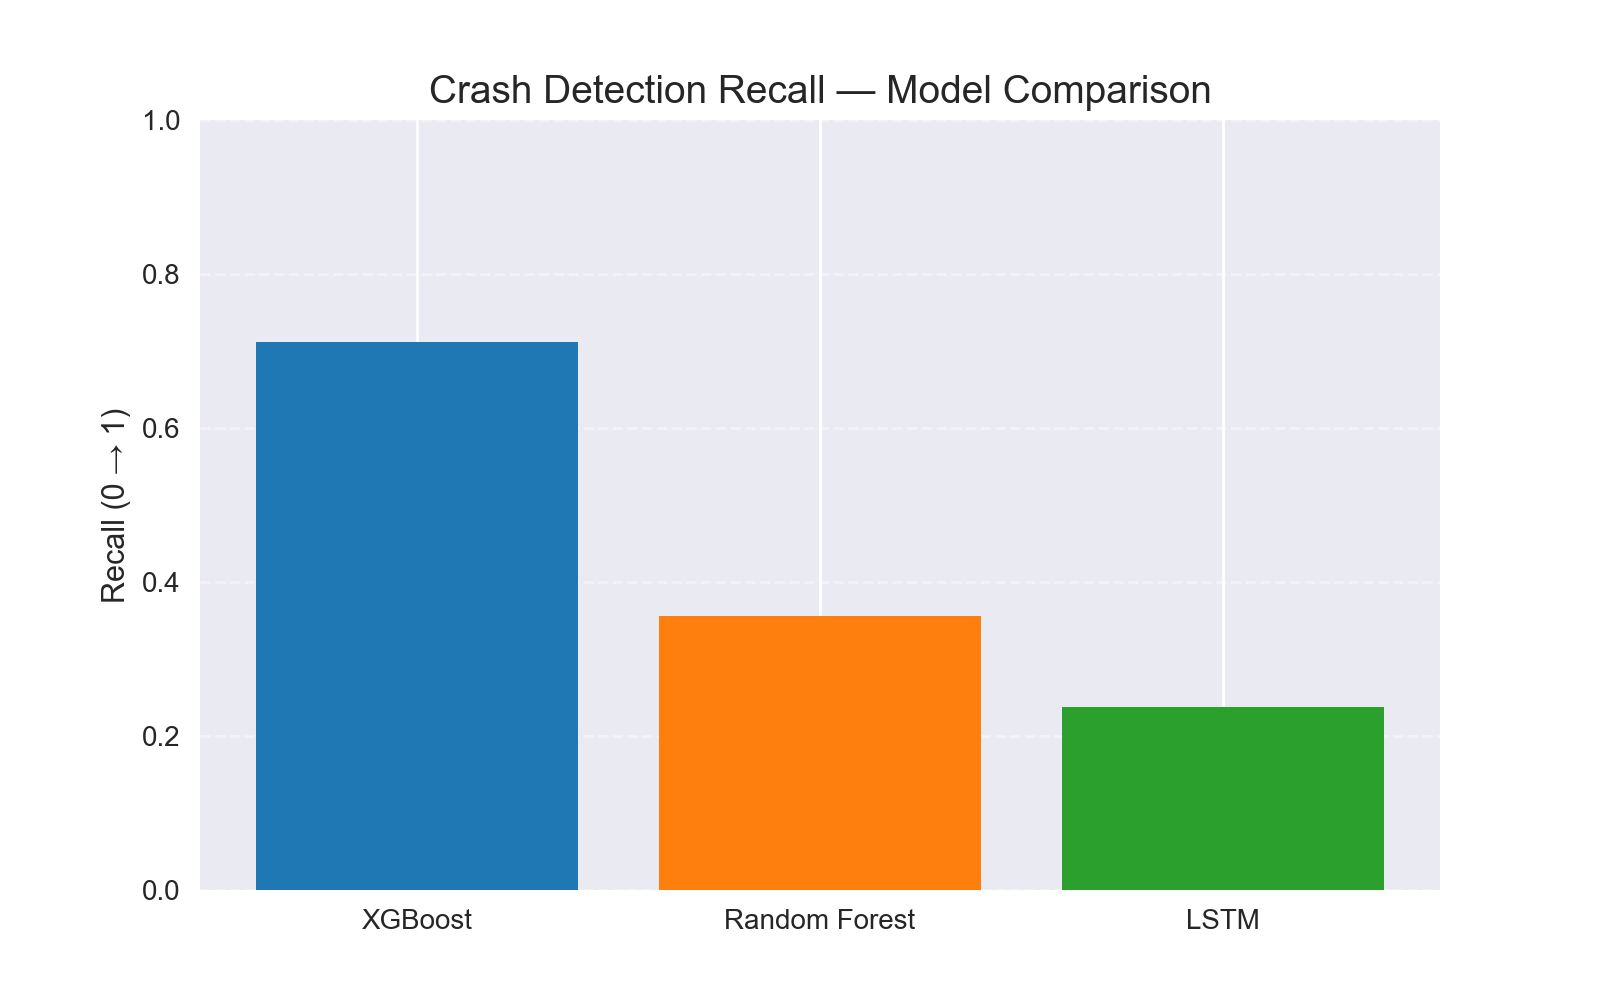
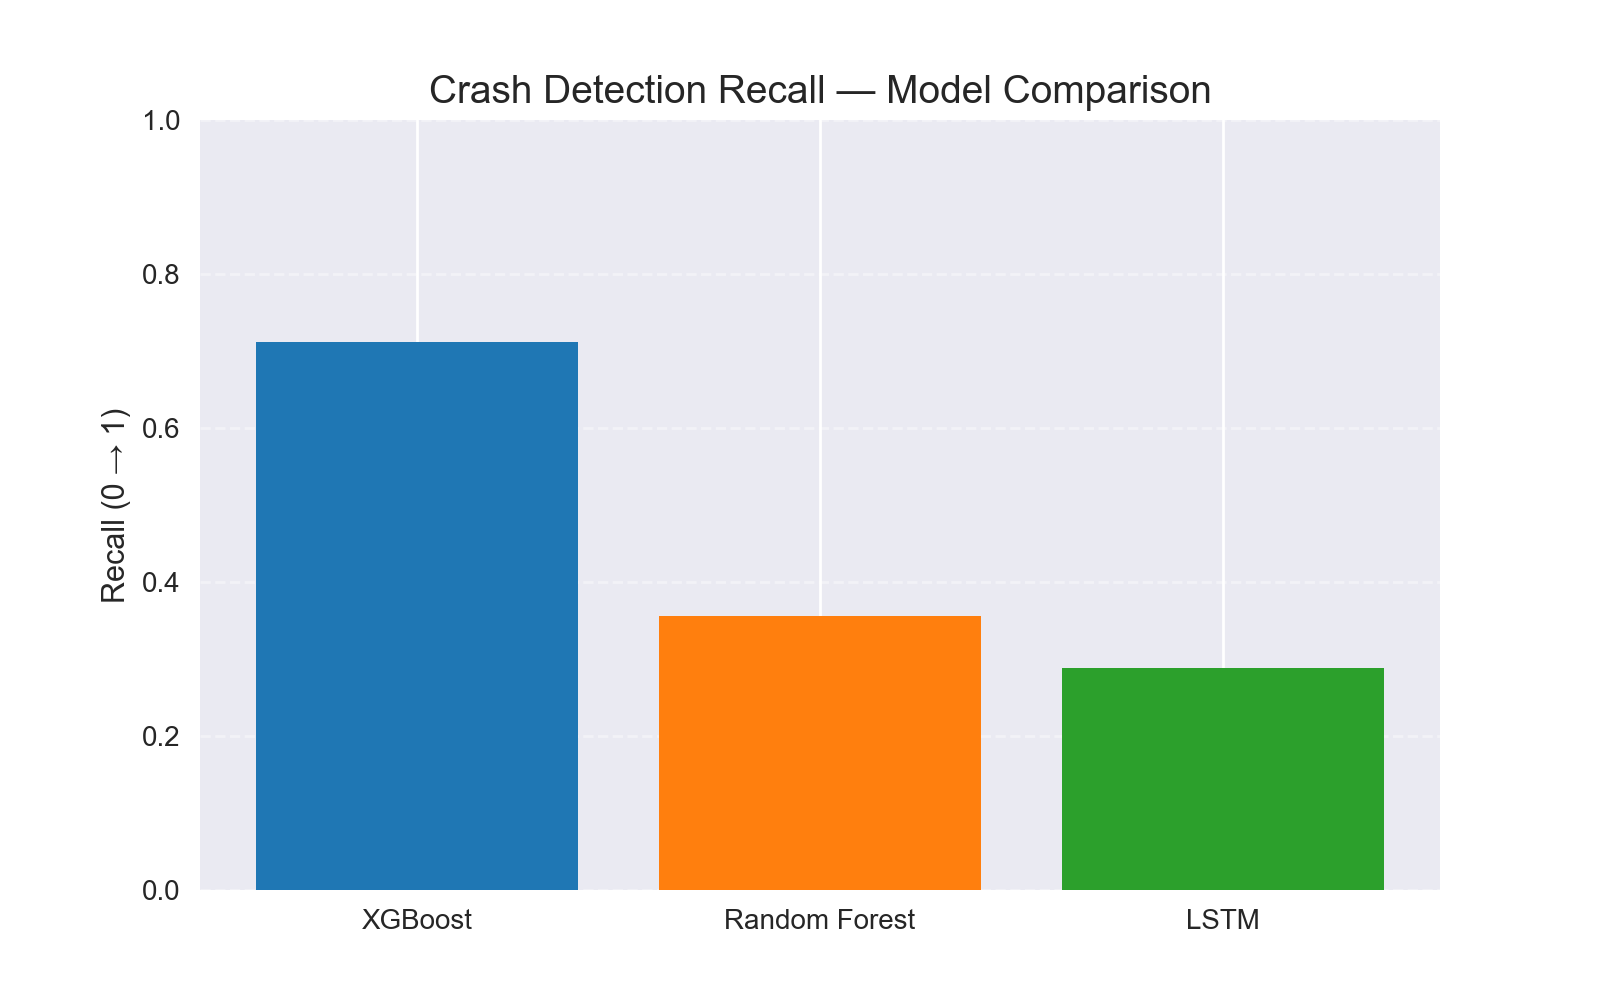
updating of different documents

Changed region(s): [[0.6562, 0.651, 0.875, 0.713]]

diff --git a/src/xgboost_randomforest_kmeans.py b/src/xgboost_randomforest_kmeans.py
@@ -162,56 +162,53 @@ print("\nModel successfully identifies safe-haven assets during extreme market s
 
 
 # =============================================================================
-# 5. RANDOM FOREST – ROBUSTNESS CHECK
+# 5. RANDOM FOREST MODEL
 # =============================================================================
 
 from sklearn.ensemble import RandomForestClassifier
 
 print("\n" + "="*70)
-print("COMPARATIVE MODEL PERFORMANCE & CONSISTENCY CHECK")
+print("Random Forest Performance on 2020–2025 (Extreme Crash Prediction)")
 print("="*70)
 
-rf = RandomForestClassifier(
+rf_model = RandomForestClassifier(
     n_estimators=500,
     max_depth=None,
-    class_weight='balanced',
+    min_samples_leaf=1,
+    class_weight="balanced",
     random_state=42,
     n_jobs=-1
 )
 
-rf.fit(X_train, y_train)
-rf_pred = rf.predict(X_test)
-rf_prob = rf.predict_proba(X_test)[:, 1]
+rf_model.fit(X_train, y_train)
 
-rf_recall = recall_score(y_test, rf_pred)
-xgb_recall = recall_score(y_test, y_pred)
+rf_pred = rf_model.predict(X_test)
+rf_prob = rf_model.predict_proba(X_test)[:, 1]
 
-print(f"Random Forest Recall on crash days : {rf_recall:.4f}")
-print(f"XGBoost       Recall on crash days : {xgb_recall:.4f}")
+# PERFORMANCE METRICS
+print(classification_report(y_test, rf_pred, digits=4))
+print(f"ROC AUC Score: {roc_auc_score(y_test, rf_prob):.4f}")
 
-rf_crash_days = X_test.index[rf_pred == 1]
+rf_perf = pd.DataFrame({
+    "Metric": ["ROC_AUC"],
+    "Value": [roc_auc_score(y_test, rf_prob)]
+})
+rf_perf.to_csv("results/rf_performance.csv", index=False)
 
-rf_safe_haven = df.loc[rf_crash_days, [
+# SAFE-HAVEN PERFORMANCE ON RANDOM FOREST PREDICTED CRASH DAYS
+rf_predicted_crash_days = X_test.index[rf_pred == 1]
+
+rf_safe_haven = df.loc[rf_predicted_crash_days, [
     'Gold_Return', 'Dollar_Index_Return', 'US10Y_Return', 'SP500_Return'
 ]].mean()
 
-print("\nSafe-haven returns on Random Forest predicted crash days:")
-print(rf_safe_haven.round(6))
+print("\n" + "="*70)
+print("Average Daily Returns on RF Predicted Crash Days (2020–2025)")
+print("="*70)
+print(rf_safe_haven.round(6).to_string())
+print("="*70)
+
 rf_safe_haven.to_csv("results/rf_safehaven_returns.csv")
-
-
-# High-confidence XGBoost predictions
-high_conf = y_prob > 0.70
-high_conf_days = X_test.index[high_conf]
-
-if len(high_conf_days) >= 5:
-    high_conf_ret = df.loc[high_conf_days, [
-        'Gold_Return', 'Dollar_Index_Return', 'US10Y_Return', 'SP500_Return'
-    ]].mean()
-
-    print(f"\nHigh-confidence XGBoost predictions (>70%, n={len(high_conf_days)} days):")
-    print(high_conf_ret.round(6))
-
 
 # =============================================================================
 # 6. K-MEANS CLUSTERING – UNSUPERVISED STRESS TYPOLOGY
@@ -222,7 +219,7 @@ from sklearn.cluster import KMeans
 from sklearn.decomposition import PCA
 
 print("\n" + "="*80)
-print("UNSUPERVISED ANALYSIS: Clustering of Extreme Market Stress Days")
+print("UNSUPERVISED ANALYSIS: K-Means Clustering of Extreme Market Stress Days")
 print("="*80)
 
 extreme_days = df[df['is_crash'] == 1].copy()
@@ -278,8 +275,6 @@ plt.colorbar(label='Crisis type')
 plt.grid(True, alpha=0.3)
 plt.savefig("results/kmeans_pca_clusters.png", dpi=200)
 plt.show()
-
-
 
 # =============================================================================
 # 7. LSTM — Deep Learning Model for Crash Prediction

diff --git a/src/linear_regression.py b/src/linear_regression.py
@@ -67,7 +67,7 @@ global_reg_table = pd.DataFrame(
     columns=["Asset", "Beta_SP500", "Pvalue_SP500", "R_squared"]
 )
 
-print("\nGLOBAL REGRESSION — Hedge Test (Corrected)\n")
+print("\nGLOBAL REGRESSION — Hedge Test\n")
 print(global_reg_table.round(4))
 global_reg_table.to_csv("results/global_regression_table.csv", index=False)
 
